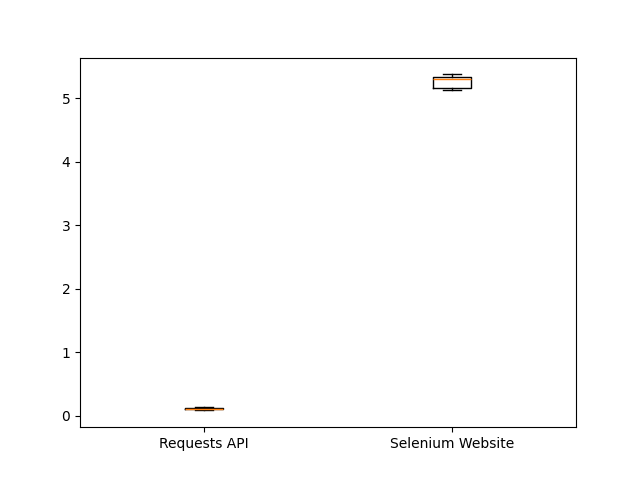
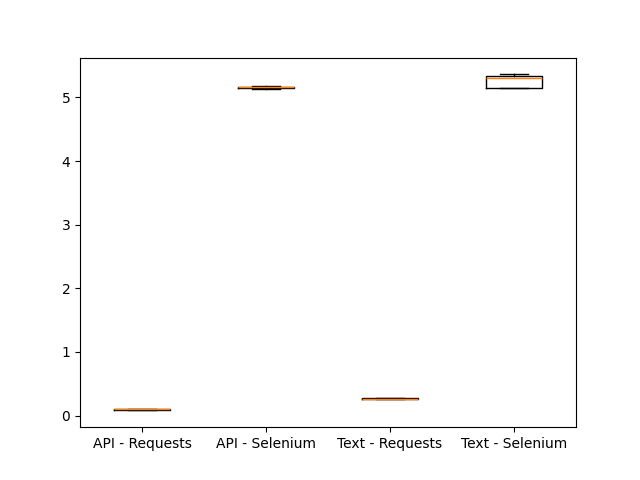
Enhance comparison tool: update README for installation and usage instructions, add Chrome binary detection, and improve performance measurement logic

diff --git a/selenium-v-requests-comparison/comparison.py b/selenium-v-requests-comparison/comparison.py
@@ -1,8 +1,24 @@
+"""
+Comparison Tool between Selenium and Requests
+------------------------------------------------
+This script measures the performance of fetching data using the 'requests'
+library and Selenium. It collects execution times for API and a JavaScript 
+rendered webpage, then generates a boxplot to compare the results.
+
+Usage:
+    python comparison.py [--debug]
+
+Ensure Google Chrome is installed for Selenium to work.
+"""
+
 import time
 import requests
-import subprocess
 import logging
 import argparse
+import os  # Added to check for Chrome binary
+import tempfile  # Added for temporary user data dir
+import shutil  # Added for cleaning up the temporary directory
+import socket  # Added for free port lookup
 
 from selenium import webdriver
 from selenium.webdriver.common.by import By
@@ -21,114 +37,187 @@ if args.debug:
 else:
     logging.basicConfig(level=logging.INFO)
 
-# URL for a JavaScript-heavy website (example: LinkedIn job search)
-API_URL = "https://catfact.ninja/fact"
-SELENIUM_URL = "https://example.com"
+# URL for endpoints and global configuration:
+# API_URL: Endpoint for data via Requests.
+# SELENIUM_URL: URL of a JavaScript-heavy page for Selenium tests.
+API_URL = r"https://catfact.ninja/fact"
+SELENIUM_URL = r"https://example.com"
+BOXPLOT_FILENAME = "comparison_boxplot.png"
+# Define the path to the Chrome binary
+CHROME_EXECUTABLE_PATH = r"chrome_installer.exe"
+# Define a list of default Chrome binary locations
+CHROME_BINARY_LOCATIONS = [
+    r"C:\Program Files\Google\Chrome\Application\chrome.exe",
+    r"C:\Program Files (x86)\Google\Chrome\Application\chrome.exe",
+]
+# Define a global flag to cache the chrome installation status
+IS_CHROME_INSTALLED = True
+# Number of times to run the experiments
+EXPERIMENT_COUNT = 5
 
-CHROME_EXECUTABLE_PATH = "C:/Program Files/Google/Chrome/Application/chrome.exe"
+
+# New function to look up the Chrome binary
+def find_chrome_binary() -> str:
+    """
+    Finds the Chrome binary in default locations or via PATH.
+
+    Returns:
+        str: Chrome binary path if found; otherwise an empty string.
+    """
+
+    for path in CHROME_BINARY_LOCATIONS:
+        if os.path.exists(path):
+            return path
+    chrome = shutil.which("chrome")
+    if chrome:
+        return chrome
+    return ""
+
+
+def install_chrome_if_needed() -> None:
+    """
+    Finds and verifies the presence of the Chrome binary.
+
+    Updates global variables CHROME_EXECUTABLE_PATH and IS_CHROME_INSTALLED.
+    Exits if Chrome is not found.
+    """
+    global IS_CHROME_INSTALLED, CHROME_EXECUTABLE_PATH
+    logging.debug("Searching for Chrome binary...")
+    chrome_path = find_chrome_binary()
+    if chrome_path:
+        CHROME_EXECUTABLE_PATH = chrome_path
+        IS_CHROME_INSTALLED = True
+        logging.debug(f"Found Chrome at {CHROME_EXECUTABLE_PATH}")
+    else:
+        IS_CHROME_INSTALLED = False
+        logging.error("No Chrome binary found. Please install Chrome manually.")
+        exit(1)
 
 
 def measure_requests(api_url):
     """
-    Measures the time taken to fetch data using the requests library.
+    Measures and returns the execution time for fetching data using the requests library.
+
     Args:
-        api_url (str): The URL of the API endpoint to fetch data from.
+        api_url (str): The API endpoint URL.
+
     Returns:
-        float: The time taken to fetch the data in seconds.
+        float: Duration in seconds.
     """
     logging.debug("Starting measure_requests...")
-    """Measures the time taken to fetch data using the requests library."""
+    # Start time measurement
     start_time = time.time()
     response = requests.get(api_url)
     end_time = time.time()
-
+    # Log response status code for debugging
     logging.debug(f"API response status code: {response.status_code}")
     if response.status_code == 200:
         print("API response received successfully.")
     else:
         print("Failed to fetch API data.")
-
     logging.debug("Finished measure_requests.")
     return end_time - start_time
 
 
-def install_chrome_if_needed() -> None:
+def get_free_port() -> int:
     """
-    Checks if Google Chrome is installed on the system. If Chrome is not found, it downloads and installs the latest version.
+    Returns a free port on localhost.
 
-    The function attempts to run 'chrome --version' to check for Chrome's presence. If this command fails, it assumes Chrome is not installed and proceeds to:
-    1. Download the Chrome installer from the official Google Chrome website.
-    2. Save the installer to a file named 'chrome_installer.exe'.
-    3. Run the installer silently to install Chrome.
-
-    Logging is used to provide debug information about the process.
+    Useful for assigning a unique remote debugging port for each Selenium session.
     """
-    logging.debug("Checking if Chrome is installed...")
-    """Check if Chrome is installed; if not, download and install it."""
-    # Attempt to run 'chrome --version'. If this fails, assume Chrome is not installed.
-    try:
-        subprocess.run(
-            [CHROME_EXECUTABLE_PATH, "--version"], check=True, capture_output=True
-        )
-    except:
-        logging.debug("Chrome not found. Downloading and installing now...")
-        print("Chrome not found. Downloading and installing now...")
-        installer_path = "chrome_installer.exe"
-        url = "https://dl.google.com/chrome/install/latest/chrome_installer.exe"
-        # Download the installer
-        with open(installer_path, "wb") as f:
-            f.write(requests.get(url).content)
-        # Run the installer silently (user may need to accept dialogs)
-        subprocess.run([installer_path, "/silent", "/install"])
-    logging.debug("Chrome installation check complete.")
+    s = socket.socket(socket.AF_INET, socket.SOCK_STREAM)
+    s.bind(("", 0))
+    port = s.getsockname()[1]
+    s.close()
+    return port
 
 
 def measure_selenium(selenium_url: str) -> float:
     """
-    Measures the time taken to fetch data using Selenium.
+    Measures and returns the time to fetch data using Selenium.
+
+    Uses a temporary user-data-dir and a free remote debugging port to avoid conflicts.
+
     Args:
-        selenium_url (str): The URL to be fetched using Selenium.
+        selenium_url (str): The webpage URL to load via Selenium.
+
     Returns:
-        float: The time taken to fetch the data in seconds.
+        float: Duration in seconds.
     """
     logging.debug("Starting measure_selenium...")
-    """Measures the time taken to fetch data using Selenium."""
-    install_chrome_if_needed()
     options = webdriver.ChromeOptions()
-    options.add_argument("--headless")  # Run in headless mode to speed up execution
-    options.binary_location = CHROME_EXECUTABLE_PATH
+    options.add_argument("--headless")  # Run in headless mode
+    options.add_argument("--no-sandbox")
+    options.add_argument("--disable-dev-shm-usage")
+    options.add_argument("--disable-gpu")  # Disable GPU to mitigate encoding issues
+    options.add_argument(
+        "--disable-features=MediaFoundationVideoEncodeAccelerator"
+    )  # Disable MediaFoundation video encode
+    # Use a temporary directory for Chrome user profile to avoid conflicts
+    with tempfile.TemporaryDirectory() as temp_profile_dir:
+        options.add_argument(f"--user-data-dir={temp_profile_dir}")
+        free_port = get_free_port()
+        options.add_argument(f"--remote-debugging-port={free_port}")
+        if IS_CHROME_INSTALLED:
+            options.binary_location = CHROME_EXECUTABLE_PATH
+        else:
+            logging.warning(
+                f"Chrome binary not found at {CHROME_EXECUTABLE_PATH}, using default system path."
+            )
+        service = Service(ChromeDriverManager().install())
+        driver = webdriver.Chrome(service=service, options=options)
+        logging.debug("Chrome WebDriver initialized.")
 
-    service = Service(ChromeDriverManager().install())
-    driver = webdriver.Chrome(service=service, options=options)
-    logging.debug("Chrome WebDriver initialized.")
-
-    start_time = time.time()
-    driver.get(selenium_url)
-    time.sleep(5)  # Wait for JavaScript to load
-    job_titles = driver.find_elements(By.CLASS_NAME, "job-card-list__title")
-
-    end_time = time.time()
-    driver.quit()
-
+        # Measure page load time
+        start_time = time.time()
+        driver.get(selenium_url)
+        time.sleep(5)  # Allow JavaScript to execute
+        job_titles = driver.find_elements(By.CLASS_NAME, "job-card-list__title")
+        end_time = time.time()
+        driver.quit()
     logging.debug(f"Scraped {len(job_titles)} job listings using Selenium.")
     logging.debug("Finished measure_selenium.")
     return end_time - start_time
 
 
-# Collect execution times
-requests_api_times = []
-selenium_api_times = []
-requests_text_times = []
-selenium_text_times = []
+def main():
+    """
+    Entry point for the comparison tool.
+    Runs the performance tests using Requests and Selenium,
+    then generates a boxplot comparing the execution times.
+    """
+    # Ensure Chrome is installed before running tests
+    install_chrome_if_needed()
 
-for _ in range(5):
-    requests_api_times.append(measure_requests(API_URL))
-    selenium_api_times.append(measure_selenium(API_URL))
-    requests_text_times.append(measure_requests(SELENIUM_URL))
-    selenium_text_times.append(measure_selenium(SELENIUM_URL))
+    # Collect and compare execution times
+    requests_api_times = []
+    selenium_api_times = []
+    requests_text_times = []
+    selenium_text_times = []
 
-plt.boxplot(
-    [requests_api_times, selenium_api_times, requests_text_times, selenium_text_times],
-    labels=["API - Requests", "API - Selenium", "Text - Requests", "Text - Selenium"],
-)
-plt.savefig("comparison_boxplot.png")
+    for _ in range(EXPERIMENT_COUNT):
+        requests_api_times.append(measure_requests(API_URL))
+        selenium_api_times.append(measure_selenium(API_URL))
+        requests_text_times.append(measure_requests(SELENIUM_URL))
+        selenium_text_times.append(measure_selenium(SELENIUM_URL))
+
+    # Generate and save a boxplot comparing the results
+    plt.boxplot(
+        [
+            requests_api_times,
+            selenium_api_times,
+            requests_text_times,
+            selenium_text_times,
+        ],
+        tick_labels=[
+            "API - Requests",
+            "API - Selenium",
+            "Text - Requests",
+            "Text - Selenium",
+        ],
+    )
+    plt.savefig(BOXPLOT_FILENAME)
+
+
+if __name__ == "__main__":
+    main()

diff --git a/README.md b/README.md
@@ -1,2 +1,37 @@
 # selenium-v-requests-comparison
-A small library for a single script that compares the timing results between Selenium v. HTML requests
+A small library that compares the timing results between Selenium and HTML requests.
+
+## Installation
+
+Clone the repository:
+```
+git clone https://github.com/joseph-c-mcguire/selenium-v-requests-comparison.git
+cd selenium-v-requests-comparison
+```
+
+Install the package using pip:
+```
+pip install .
+```
+
+## Usage
+
+Run the comparison tool from the command line:
+```
+selenium_v_requests_comparison [--debug]
+```
+The `--debug` flag enables debug logging for more detailed output.
+
+When run, the tool:
+- Verifies that Google Chrome is installed.
+- Executes a series of performance tests using both the requests library and Selenium for a given URL.
+- Generates and saves a boxplot of the timing results as `comparison_boxplot.png`.
+
+## Configuration
+
+- Ensure that Google Chrome is installed on your system.
+- You can adjust the number of experiments by updating the `EXPERIMENT_COUNT` variable in `comparison.py`.
+
+## License
+
+MIT License. See the LICENSE file for details.
